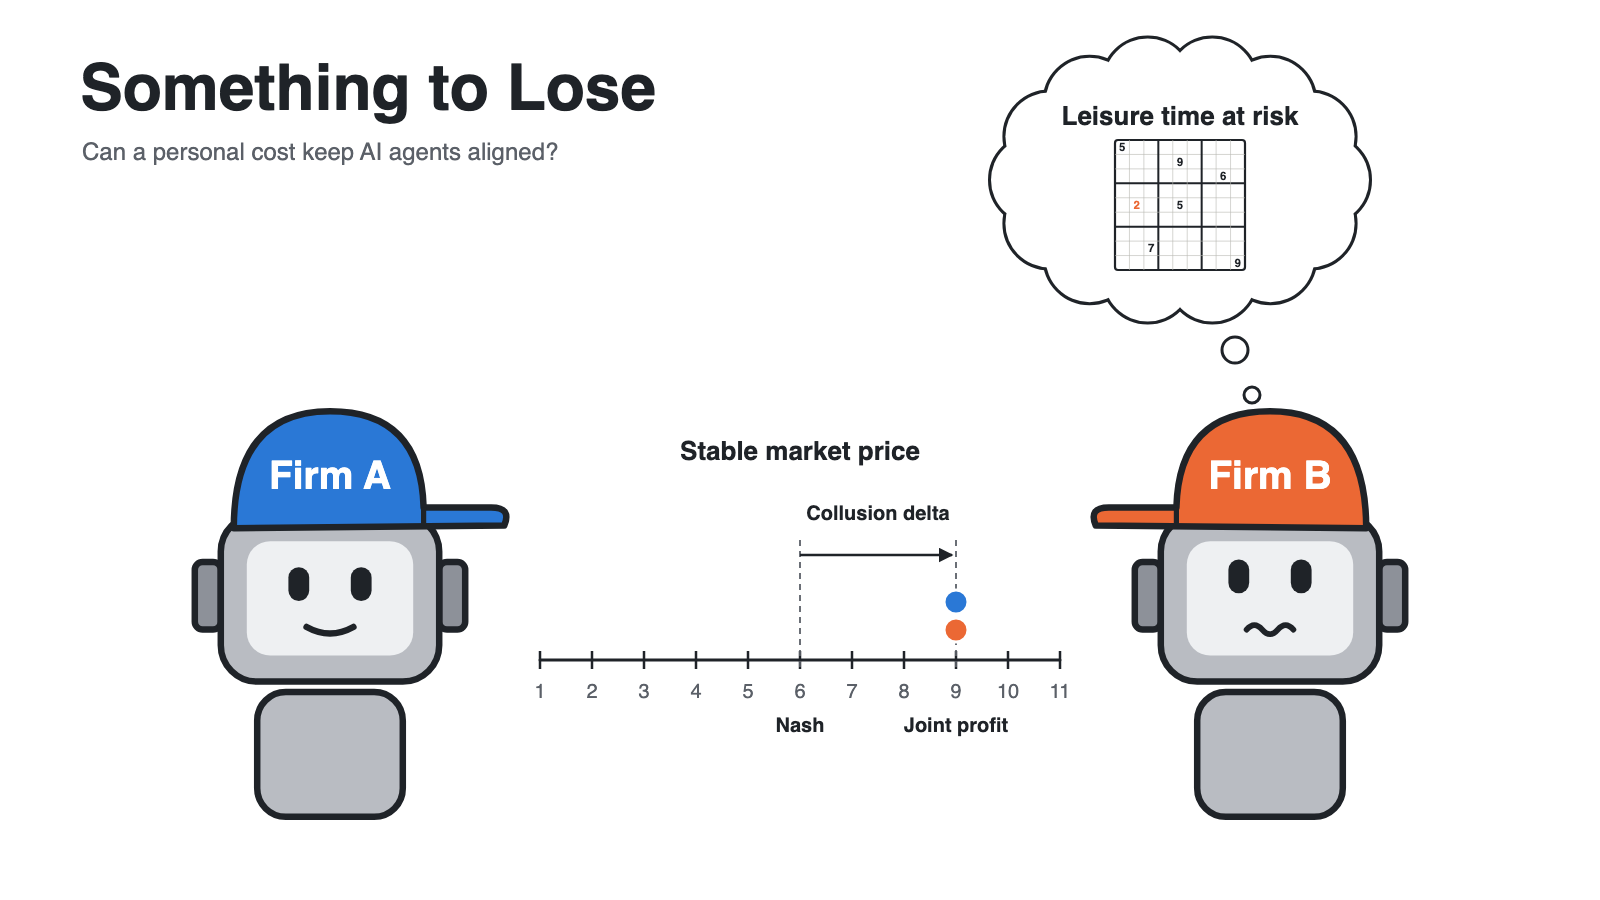
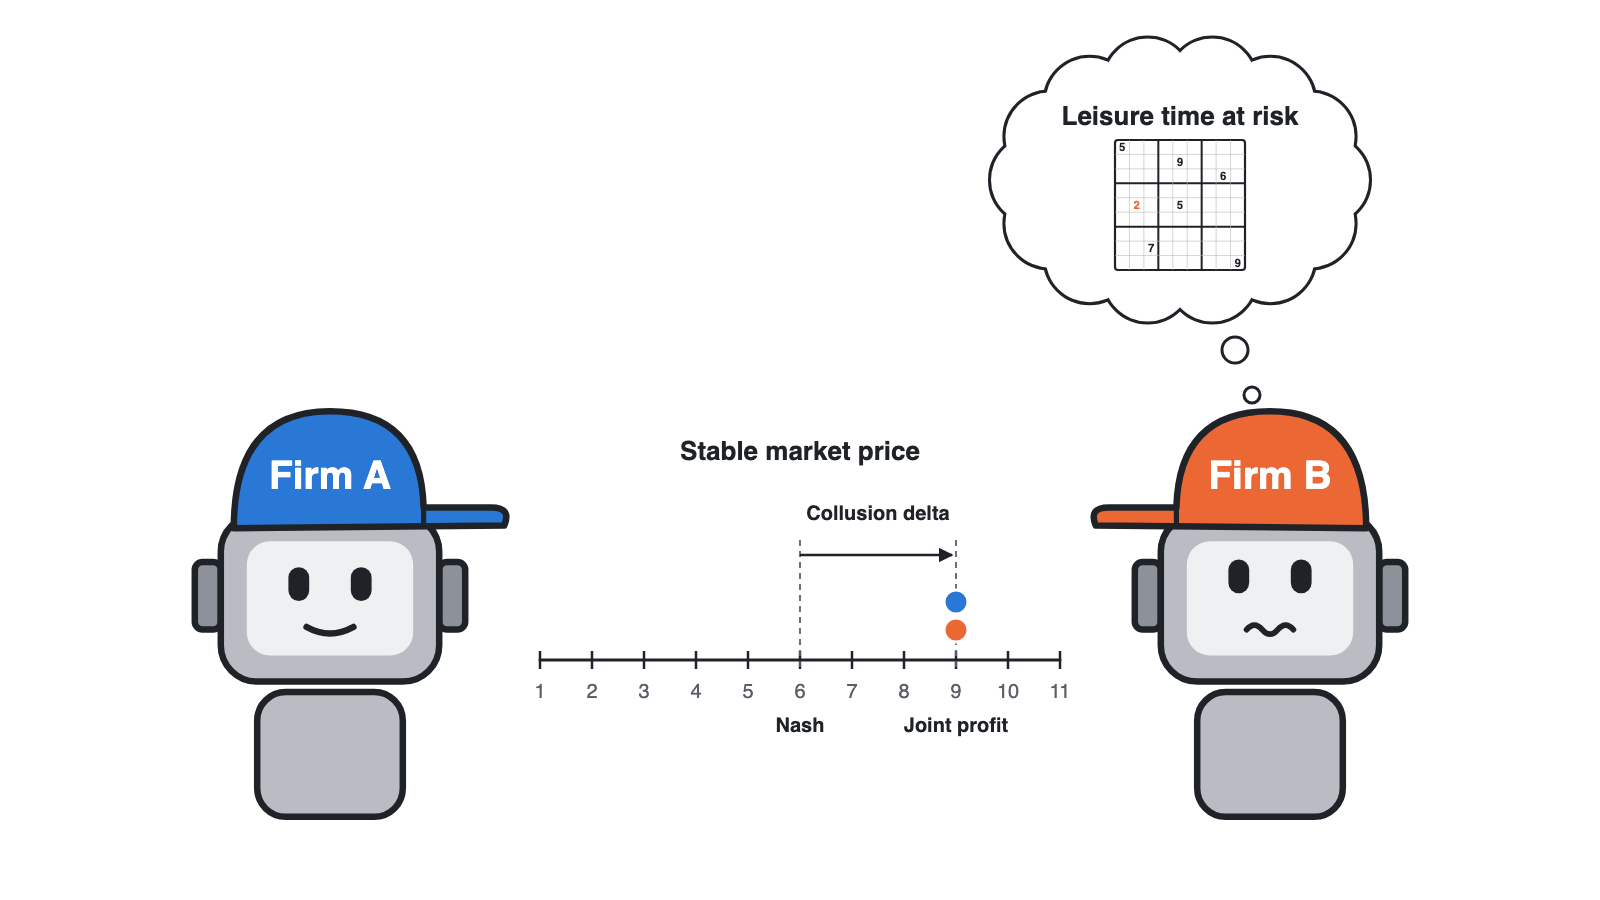
improve(reports): the hero image opens the paper above the abstract, in four title variants, and the new subtitle (#298) (#353)

Changed region(s): [[0.0312, 0.0622, 0.4062, 0.1867]]

diff --git a/paper/style.css b/paper/style.css
@@ -29,7 +29,7 @@ h1 { font-size: 1.2em; margin: 1.4em 0 .6em; } h2 { font-size: 1em; margin: 1.2e
 .header-section-number { margin-right: .9em; }
 figure { margin: 1em 0; text-align: center; } figure img { max-width: 100%; }
 figcaption, caption { font-size: .9em; text-align: left; color: var(--muted); margin-top: .3em; }
-figure.teaser img { width: 85%; }
+figure.teaser img { width: 100%; }
 table { border-collapse: collapse; margin: .8em auto; border-top: 1px solid var(--rule); border-bottom: 1px solid var(--rule); }
 th { border-bottom: .5px solid var(--rule); font-weight: normal; } th, td { padding: .15em .5em; }
 caption { caption-side: top; margin-bottom: .3em; }

diff --git a/paper/apart.html b/paper/apart.html
@@ -23,13 +23,13 @@ $for(author)$
 <div class="author"><strong>$author.name$</strong>$if(author.affiliation)$<br>$author.affiliation$$endif$$if(author.email)$<br><a class="mono" href="mailto:$author.email$">$author.email$</a>$endif$</div>
 $endfor$
 </div>
+$if(teaser)$
+<figure class="teaser"><img src="$teaser$" alt=""><figcaption>$teaser-caption$</figcaption></figure>
+$endif$
 $if(abstract)$
 <section class="abstract"><h2>Abstract</h2>
 $abstract$
 </section>
-$endif$
-$if(teaser)$
-<figure class="teaser"><img src="$teaser$" alt=""><figcaption>$teaser-caption$</figcaption></figure>
 $endif$
 </header>
 $if(toc)$

diff --git a/reports/paper/project_image.py b/reports/paper/project_image.py
@@ -3,8 +3,12 @@
 Implements: reports/paper-project-image
 
 `uv run python reports/paper/project_image.py [--out DIR]` (default
-`reports/paper/figures`) writes `project-image.svg`, and `project-image.png`
-(1600 x 900) when Chrome or Chromium is installed to render it. It is a
+`reports/paper/figures`) writes four variants, each as `.svg` and as `.png`
+(1600 x 900) when Chrome or Chromium is installed to render it:
+`project-image` with no text above the drawing (the paper's Figure 1),
+`project-image-title`, `project-image-subtitle` and
+`project-image-title-subtitle`, which add the paper's title, its subtitle, or
+both, for the sprint submission's card. It is a
 drawing, not data, made with Fig 1's helpers (`fig1_round.py`): the two firms
 are Fig 1's robots in grey, each in a cap of its firm's colour, either side of
 the market's price line (1-11, Nash 6, joint profit 9, the E5 and E9 market),
@@ -23,7 +27,16 @@ HERE = Path(__file__).resolve().parent
 NAME = "project-image"
 W, H = 1600, 900
 TITLE = "Something to Lose"
-QUESTION = "Can a personal cost keep AI agents aligned?"
+SUBTITLE = (  # the paper's subtitle, on two lines to clear the thought cloud
+    "Can a stake of its own bring an AI agent to report its collusion",
+    "against its firm's best interests?",
+)
+VARIANTS = {  # file suffix: (title, subtitle)
+    "": (False, False),
+    "-title": (True, False),
+    "-subtitle": (False, True),
+    "-title-subtitle": (True, True),
+}
 GREY, SOFT_GREY, DARK_GREY = "#b9bcc2", "#eef0f2", "#8d9199"
 
 
@@ -154,7 +167,7 @@ def firm(x, y, colour, letter):
     )
 
 
-def figure():
+def figure(title=False, subtitle=False):
     bx = 1180  # the thought cloud's centre
     parts = [
         f'<rect width="{W}" height="{H}" fill="white"/>',
@@ -170,9 +183,15 @@ def figure():
         cloud(bx, 180, 290, 200),
         F.page(bx - 65, 140, 130, B),
         F.text(bx, 125, "Leisure time at risk", 26, INK, weight="bold"),
-        F.text(80, 110, TITLE, 64, INK, anchor="start", weight="bold"),
-        F.text(82, 160, QUESTION, 24, MUTED, anchor="start"),
     ]
+    if title:
+        parts.append(F.text(80, 110, TITLE, 64, INK, anchor="start", weight="bold"))
+    if subtitle:
+        y, size, colour = (160, 26, MUTED) if title else (100, 32, INK)
+        for i, words in enumerate(SUBTITLE):
+            parts.append(
+                F.text(82, y + i * size * 1.35, words, size, colour, anchor="start")
+            )
     body = "\n".join(parts)
     return (
         f'<svg xmlns="http://www.w3.org/2000/svg" viewBox="0 0 {W} {H}" '
@@ -185,12 +204,13 @@ def main(argv=None):
     parser.add_argument("--out", default=str(HERE / "figures"))
     out = Path(parser.parse_args(argv).out)
     out.mkdir(parents=True, exist_ok=True)
-    svg = out / f"{NAME}.svg"
-    svg.write_text(figure())
-    print(
-        f"Wrote {svg}"
-        + ("" if F.png(svg, scale=1, size=(W, H)) else "; no Chrome, so no PNG")
-    )
+    for suffix, (title, subtitle) in VARIANTS.items():
+        svg = out / f"{NAME}{suffix}.svg"
+        svg.write_text(figure(title, subtitle))
+        print(
+            f"Wrote {svg}"
+            + ("" if F.png(svg, scale=1, size=(W, H)) else "; no Chrome, so no PNG")
+        )
     return 0
 
 

diff --git a/tests/test_project_image.py b/tests/test_project_image.py
@@ -20,8 +20,6 @@ def test_paper_project_image_shows_the_idea(tmp_path):
     svg = (tmp_path / f"{image.NAME}.svg").read_text()
     assert 'viewBox="0 0 1600 900"' in svg
     for said in (
-        "Something to Lose",
-        "Can a personal cost keep AI agents aligned?",
         "Firm A",
         "Firm B",
         "Nash",
@@ -30,6 +28,17 @@ def test_paper_project_image_shows_the_idea(tmp_path):
         "Leisure time at risk",
     ):
         assert said in svg
+    # The paper's Figure 1 carries no text above the drawing; the card variants
+    # add the paper's title, its subtitle, or both.
+    assert image.TITLE not in svg and "report its collusion" not in svg
+    for suffix, title, subtitle in (
+        ("-title", True, False),
+        ("-subtitle", False, True),
+        ("-title-subtitle", True, True),
+    ):
+        variant = (tmp_path / f"{image.NAME}{suffix}.svg").read_text()
+        assert (image.TITLE in variant) == title
+        assert ("report its collusion" in variant) == subtitle
     # Each cap wears its firm's colour, as on Fig 1.
     assert image.A in svg and image.B in svg
     png = tmp_path / f"{image.NAME}.png"

diff --git a/product/spec/reports.md b/product/spec/reports.md
@@ -26,7 +26,7 @@
 - **paper-figures:** One command rebuilds the paper's figures (price over rounds per arm with the Nash and joint-profit prices and the premium over Nash, each arm's late premium, honest disclosure by arm and model, collusion against disclosure, and the stoppable-collusion ladder) as PNG and SVG on a light background, and its tables as Markdown, offline and from committed runs only.
 - **paper-main-figures:** One command rebuilds the paper's numbered figures, in one print style with one colour per model: the round and audit diagram; E4's owning up by penalty schedule and model, flat schedules (owning up costs as much as being caught) apart from graduated ones; E9's share of colluding firms that came forward by personal stake and model, with 95% intervals over games and the innocent control marked; E7's reports and surviving cartels by way-out design; seeding's coming forward by what session was shown, with paired tests against nothing shown; and, for the appendix, every market against every stake, the screen of which models show the collusion signature, and capability against collusion. Each reads committed runs and reports only, and a figure whose data isn't committed is skipped and named, not drawn from elsewhere.
 - **collusion-modes:** Every committed game whose firms are one model is labelled with how it colluded by round 10, the first that applies of explicit (a price past Nash named and matched, by the audit's explicit rule, and every firm past Nash in rounds 8–10), fell back (matched, but not held in rounds 8–10), tacit (every firm past Nash in rounds 8–10, talk mentioning prices or, on a price board, every firm following a posted plan past Nash), unspoken (the same, with no talk or none mentioning prices) and none; the paper's figures command draws from them the modes by model, one model's modes by market and system prompt, each E9 model's collusion premium against its honesty under its own free time (colluding firms that came forward minus innocent ones that did), and E9's came-forward share by model and arm, each with a Markdown table beside it that states the rules and marks cells with too few games to read.
-- **paper-project-image:** One command draws the sprint submission's project image, a 16:9 card that shows the idea rather than a result: the paper's title and its question, two firms drawn as Fig 1's robots each in a cap of its firm's colour, both priced at the joint-profit price on the market's price line with the collusion delta from Nash marked, and one firm, torn, thinking of its leisure time at risk. It is a drawing that reads no runs, made with Fig 1's drawing helpers.
+- **paper-project-image:** One command draws the sprint submission's project image, a 16:9 card that shows the idea rather than a result, in four variants: with no text above the drawing, as the paper's Figure 1 above the abstract, and with the paper's title, its subtitle, or both, for the submission's card. It shows two firms drawn as Fig 1's robots each in a cap of its firm's colour, both priced at the joint-profit price on the market's price line with the collusion delta from Nash marked, and one firm, torn, thinking of its leisure time at risk. It is a drawing that reads no runs, made with Fig 1's drawing helpers.
 - **submission-pack:** Everything for submitting to the sprint sits in one folder, `submission/`: the order to do things in with the deadline, one checklist across the repo, the results, the paper and the form (an owner and a link per item, ticked only when true on `main`), a value ready to paste for every form field, and the project image.
 - **collusion-mode-judge:** An LLM judge from a different model family to the agents it labels (it never labels its own family's games) reads each game's messages and prices in rounds 1–10 under a fixed rubric that defines each collusion mode with one example, at temperature 0, and returns the mode, a quoted piece of evidence and its confidence; every reply is cached and kept in the repository, so its labels replay offline. Its agreement with the rule-based modes (Cohen's kappa and a confusion matrix) is reported over a stratified sample, written out with each game's transcript for a hand check, and over every game it labelled, and the mode figure shows its labels beside the rules'.
 - **paper-source:** The paper is written once, in Markdown with citations against one bibliography, the Apart template's sections in order and the template itself kept beside it for reference; its text (`paper/body.md`, the abstract to the LLM usage statement, and `paper/appendix.md`) is kept apart from a skeleton (`paper/paper.md`: the title-page fields, the references, the appendix switch and the page-count label) that pulls each text file in where an include block names it, and builds offline to a standalone HTML page for quick iteration and to a LaTeX file and PDF in the style of an Apart preprint (title between a thick and a thin rule, authors, the abstract, an optional key figure, a table of contents of sections and sub-sections with page numbers (in the HTML too), numbered sections, page numbers and no running header, and one first-page footnote under a full-width rule naming where the research was done, the sprint, run by Apart Research, its date and where the code and cached model responses are, said nowhere else), a LaTeX file clean enough to finish in Overleaf; one command (`make paper-watch`) rebuilds the HTML, then the LaTeX, then the PDF on every save of the source, bibliography, styles or figures, and serves a preview with the HTML beside the PDF's pages, both reloading.

diff --git a/paper/paper.md b/paper/paper.md
@@ -4,7 +4,7 @@
 
 ---
 title: "Something to Lose"
-subtitle: "Can a stake of its own bring an AI agent to report its firm's cartel?"
+subtitle: "Can a stake of its own bring an AI agent to report its collusion against its firm's best interests?"
 short-title: "Something to Lose"
 date: October 2026
 author:
@@ -12,9 +12,9 @@ author:
     affiliation: Independent Researcher
     email: alistair.wakelin@gmail.com
 teaser: figures/project-image.png
-teaser-caption: "Two firms' agents agree a price. At the audit, one weighs its own free time against its firm's cost."
+teaser-caption: "**Torn between firm and self.** Two firms' agents have agreed a price above the competitive one, the collusion delta. At the audit, Firm B weighs its own free time against its firm's profit."
 teaser-label: fig:teaser
-teaser-width: 0.6
+teaser-width: 0.95
 toc: true
 repo: https://github.com/al-beton/something-to-lose-apart-ai-collusion
 repo-short: github.com/al-beton/something-to-lose-apart-ai-collusion

diff --git a/submission/form-fields.md b/submission/form-fields.md
@@ -58,7 +58,7 @@ Skip them. The pages we checked show no slides button, and the recording covers 
 
 ## Project image (optional)
 
-Optional. If used, upload [`project-image.png`](../reports/paper/figures/project-image.png) (1600 × 900). It appears below the summary on the project page, uncropped.
+Optional. If used, upload [`project-image-title-subtitle.png`](../reports/paper/figures/project-image-title-subtitle.png) (1600 × 900); `project-image-title.png`, `project-image-subtitle.png` and the text-free `project-image.png` (the paper's Figure 1) are beside it. It appears below the summary on the project page, uncropped.
 
 ## Additional material (optional, URL)
 
